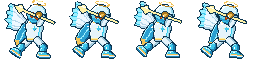
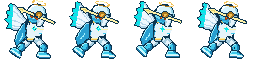
FULL AERO uses Mason's new drawings in every animation; on INFECTED.EXE he turns white-and-navy
Claude-Session: https://claude.ai/code/session_01QrPMowW61BtpNneRMoKnVz

diff --git a/src/scenes/BootScene.js b/src/scenes/BootScene.js
@@ -20,9 +20,12 @@ export class BootScene extends Phaser.Scene {
     for (const k of ['idle', 'run', 'jump', 'fall']) this.load.spritesheet('nu_' + k, 'assets/fighters/nu/' + k + '_sheet.png', { frameWidth: 64, frameHeight: 64 });   // NU (test fighter): tools/sprites/nu_moves.py
     for (const k of ['idle', 'run', 'jump', 'fall']) this.load.spritesheet('aero_' + k, 'assets/fighters/aero/' + k + '_sheet.png', { frameWidth: 64, frameHeight: 64 });   // AERO (test fighter): tools/sprites/aero_moves.py
     this.load.spritesheet('aero_moves', 'assets/fighters/aero/moves_sheet.png', { frameWidth: 112, frameHeight: 104 });
-    // FULL AERO: his transformed look (tools/sprites/aero_king_draw.py, built by aero_moves.py)
+    // FULL AERO: his transformed look (Mason's drawings, tools/sprites/art/full_aero*.png, built by aero_moves.py);
+    // the white-and-navy one is what he wears on INFECTED.EXE
     for (const k of ['idle', 'run', 'jump', 'fall']) this.load.spritesheet('aero_king_' + k, 'assets/fighters/aero/king/' + k + '_sheet.png', { frameWidth: 64, frameHeight: 64 });
     this.load.spritesheet('aero_king_moves', 'assets/fighters/aero/king/moves_sheet.png', { frameWidth: 112, frameHeight: 104 });
+    for (const k of ['idle', 'run', 'jump', 'fall']) this.load.spritesheet('aero_king_inf_' + k, 'assets/fighters/aero/king/infected/' + k + '_sheet.png', { frameWidth: 64, frameHeight: 64 });
+    this.load.spritesheet('aero_king_inf_moves', 'assets/fighters/aero/king/infected/moves_sheet.png', { frameWidth: 112, frameHeight: 104 });
     this.load.spritesheet('nu_moves', 'assets/fighters/nu/moves_sheet.png', { frameWidth: 112, frameHeight: 104 });
     for (const k of ['idle', 'run', 'jump', 'fall']) this.load.spritesheet('wow_' + k, 'assets/fighters/what-once-was/' + k + '_sheet.png', { frameWidth: 64, frameHeight: 64 });   // WHAT ONCE WAS (test fighter): tools/sprites/what_once_was_moves.py
     this.load.spritesheet('wow_moves', 'assets/fighters/what-once-was/moves_sheet.png', { frameWidth: 112, frameHeight: 104 });

diff --git a/src/fighters/aero.js b/src/fighters/aero.js
@@ -129,6 +129,8 @@ export const AERO_FULL = {
   ...AERO,
   swingSfx: 'whoosh',
   sheets: { idle: 'aero_king_idle', run: 'aero_king_run', jump: 'aero_king_jump', fall: 'aero_king_fall', moves: 'aero_king_moves' },
+  // on some stages he transforms into a different look: on INFECTED.EXE, Mason's white-and-navy FULL AERO
+  stageSheets: { infected: { idle: 'aero_king_inf_idle', run: 'aero_king_inf_run', jump: 'aero_king_inf_jump', fall: 'aero_king_inf_fall', moves: 'aero_king_inf_moves' } },
   // his spear attacks (k_* in aero_moves.py) in place of the normal ones
   moveAnims: { ...AERO_MOVES, upb: AERO_MOVES.upb_king, ...Object.fromEntries(Object.keys(SPEAR.dir).map((k) => [k, AERO_MOVES['k_' + k]])) },
   // he floats: falls slowly and hovers a little off the ground

diff --git a/src/fighters/limitAero.js b/src/fighters/limitAero.js
@@ -140,7 +140,9 @@ export class LimitAero {
   }
   enterFullAero(frames) {
     if (!(this.fullAero > 0)) { this.baseDef = this.def; this.baseSheets = this.sheets; }
-    this.def = this.baseDef.fullAero; this.sheets = { ...this.baseSheets, ...this.def.sheets };
+    this.def = this.baseDef.fullAero;
+    const onStage = this.def.stageSheets && this.def.stageSheets[this.match.stage.id];   // a stage-specific look (INFECTED.EXE)
+    this.sheets = { ...this.baseSheets, ...(onStage || this.def.sheets) };
     this.fullAero = frames; this.match.setAeroStage(true);
     this.match.puff(this.x, this.y - 30, 0xffffff, 20); this.match.puff(this.x, this.y - 30, 0xf3c358, 12);
   }

diff --git a/src/stage/infectedStage.js b/src/stage/infectedStage.js
@@ -79,6 +79,7 @@ const IDIOT = {
 export class InfectedStage {
   constructor(scene) {
     this.scene = scene;
+    this.id = 'infected';                                      // (fighters can look different here: AERO's FULL AERO)
     this.platforms = [
       { x1: -280, x2: 280, y: 0, solid: true, bottom: 60 },     // the taskbar of the giant monitor
       { x1: -214, x2: -94, y: -86, solid: false },             // title bars of windows left open

diff --git a/tools/sprites/aero_king_mason.py b/tools/sprites/aero_king_mason.py
@@ -1,0 +1,61 @@
+"""FULL AERO from Mason's own drawings: tools/sprites/art/full_aero.png (his everyday FULL AERO) and
+art/full_aero_infected.png (the white-and-navy version he wears on INFECTED.EXE). Both are 64x64, drawn over
+the same pose as aero_king_draw.py's build, so they're cut into the same parts on the same joints - and
+every animation in aero_moves.py plays with Mason's pixels.
+
+How the cut works: each of his pixels goes to the part that covers that spot in the generated drawing
+(the topmost one); pixels he added outside it go to the nearest part. The bits of each part that are hidden
+behind other parts (the chest behind the arm, the wing behind the body...) are filled in from that part's own
+visible pixels, so nothing shows a hole when a limb moves away.
+
+Use it like a draw module: source('full_aero.png') returns an object with draw_parts / composite / ORDER / RIG.
+"""
+import os
+import numpy as np
+from PIL import Image
+from scipy import ndimage
+import aero_king_draw as K
+import biped
+
+ART = os.path.join(os.path.dirname(__file__), 'art')
+
+def cut(path):
+    art = np.array(Image.open(os.path.join(ART, path)).convert('RGBA'))
+    gen = K.draw_parts()
+    H, W = art.shape[:2]
+    # who covers each spot in the generated drawing (topmost part wins)
+    owner = np.full((H, W), -1, int)
+    for i, n in enumerate(K.ORDER):
+        owner[gen[n][..., 3] > 0] = i
+    solid = art[..., 3] > 0
+    # Mason's pixels outside the generated silhouette: the nearest owned spot's part
+    if (solid & (owner < 0)).any():
+        _, (iy, ix) = ndimage.distance_transform_edt(owner < 0, return_indices=True)
+        owner = np.where(owner < 0, owner[iy, ix], owner)
+    layers = {}
+    for i, n in enumerate(K.ORDER):
+        a = np.zeros_like(art)
+        mine = solid & (owner == i)
+        a[mine] = art[mine]
+        layers[n] = a
+    for i, n in enumerate(K.ORDER):                       # the hidden parts of each piece, filled from its visible pixels
+        if not (layers[n][..., 3] > 0).any(): continue
+        hidden = (gen[n][..., 3] > 0) & solid & (owner != i)
+        biped.fill(layers, n, hidden)
+    return layers
+
+class source:
+    ORDER = K.ORDER
+    RIG = K.RIG
+    def __init__(self, path):
+        self.path = path
+        self._layers = None
+    def draw_parts(self):
+        if self._layers is None: self._layers = cut(self.path)
+        return {n: a.copy() for n, a in self._layers.items()}
+    def composite(self, P, hide=()):
+        out = np.zeros((64, 64, 4), np.uint8)
+        for n in self.ORDER:
+            if n in hide: continue
+            a = P[n]; m = a[..., 3] > 0; out[m] = a[m]
+        return out

diff --git a/tools/sprites/aero_moves.py b/tools/sprites/aero_moves.py
@@ -228,20 +228,26 @@ def build():
     N.GHOST = (159, 240, 255)
     return N.build_all(SMALL, BIG, MOVES, DIR, JS, 'AERO_MOVES', 'aero_moves.py', life_fn=life, idle=idle_keys)
 
-# ---- FULL AERO: the transformed look (tools/sprites/aero_king_draw.py) - the same animations on his
+# ---- FULL AERO: the transformed look (Mason's drawings, cut by tools/sprites/aero_king_mason.py) - the same animations on his
 # winged, haloed, caped form, with the wings beating slowly and the halo bobbing. Same frame layout as
 # the normal sheet, so src/fighters/aeroMoves.js indexes both.
-import aero_king_draw
 KFOLLOW = dict(FOLLOW, wings=(0.35, 0.8), halo=(0.3, 0.2))
-KSMALL, KBIG = N.build_rig(aero_king_draw, KFOLLOW)
 def king_life(pose, t):
     p = life(pose, t)
     w = N.full(p.get('wings')); w[0] += 9 * math.sin(t * 0.15); p['wings'] = tuple(w)
     h = N.full(p.get('halo')); h[2] += math.sin(t * 0.1) * 0.8; p['halo'] = tuple(h)
     return p
 def build_king():
-    N.GHOST = (243, 195, 88)        # golden afterimages
-    return N.build_all(KSMALL, KBIG, MOVES, os.path.join(DIR, 'king'), os.devnull, 'AERO_MOVES', 'aero_moves.py', life_fn=king_life, idle=idle_keys)
+    """FULL AERO from Mason's drawings (aero_king_mason.py): his everyday look -> aero/king/, and the white-and-navy
+    look he wears on INFECTED.EXE -> aero/king/infected/. Same frame layout as the normal sheet."""
+    import aero_king_mason
+    out = None
+    for art, sub, ghost in (('full_aero.png', 'king', (243, 195, 88)), ('full_aero_infected.png', 'king/infected', (230, 240, 248))):
+        N.GHOST = ghost                 # afterimages: gold / white
+        small, big = N.build_rig(aero_king_mason.source(art), KFOLLOW)
+        res = N.build_all(small, big, MOVES, os.path.join(DIR, sub), os.devnull, 'AERO_MOVES', 'aero_moves.py', life_fn=king_life, idle=idle_keys)
+        out = out or res
+    return out
 
 if __name__ == '__main__':
     base, out = build()

diff --git a/CLAUDE.md b/CLAUDE.md
@@ -51,7 +51,7 @@ Owner: Mason (artist; does the sprites and design). Live build: https://kobrabro
 - **Lacy / Hero Knight** (`hero-knight`, keys `hk_*`): 150×90 frames, 180×140 moves. Battle-Worn damage stages (worn1–3), Samurai + Akatsuki costumes. Unarmed `_u` sheets.
 - **Test fighters** (`TEST_ROSTER` in `roster.js`, played from Trinkets > TEST FIGHTERS, never on the select grid):
   **NU** (`nu`, keys `nu_*`, art `tools/sprites/nu_draw.py` + `nu_moves.py`) and **AERO** (`aero`, keys `aero_*`, `aero_draw.py` +
-  `aero_moves.py`; his FULL AERO form - permanent until KO'd, floating (`def.float`), attacking with a golden spear (spear animations `k_*`) (part `spear`; `SPEAR` in aero.js grows his normals' reach and damage) - is `aero_king_*`, `aero_king_draw.py`, def `AERO_FULL`). 64×64 base frames, 112×104 moves.
+  `aero_moves.py`; his FULL AERO form - permanent until KO'd, floating (`def.float`), attacking with a golden spear (spear animations `k_*`) (part `spear`; `SPEAR` in aero.js grows his normals' reach and damage) - is `aero_king_*`, def `AERO_FULL`; its art is Mason's drawings `tools/sprites/art/full_aero.png` (and `full_aero_infected.png`, worn on INFECTED.EXE via `stageSheets`), cut into parts by `aero_king_mason.py`). 64×64 base frames, 112×104 moves.
   **WHAT ONCE WAS** (`what-once-was`, keys `wow_*`, art `tools/sprites/what_once_was_draw.py` + `what_once_was_moves.py`, same rig as NU):
   a deformed Backrooms entity with a CRT TV head (screen layers `scr_*` picked per pose). MISSING Poster, Channel Surf side-B, OUT OF
   BODY up-B, Wrong Door down-B, LEVEL 0 limit (the Bacteria chase). Unique mechanic: `def.signal` meter -> when full it
